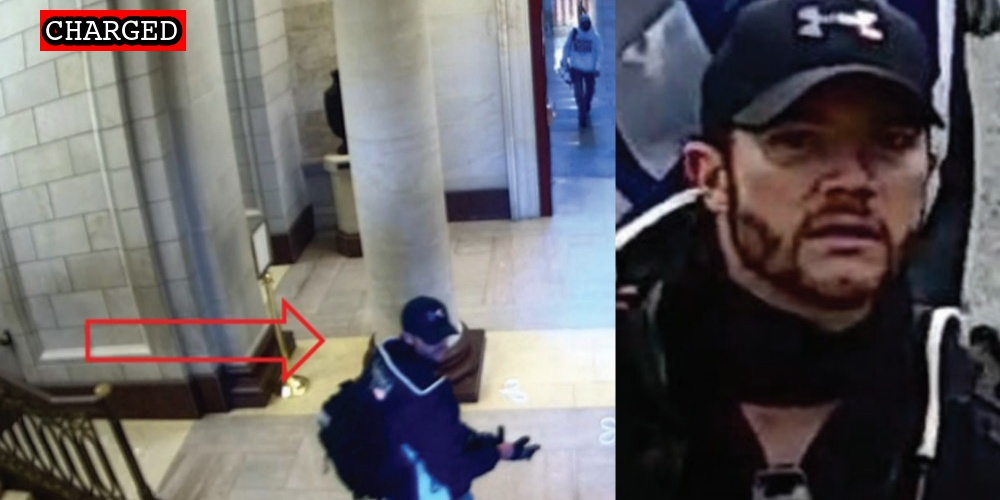
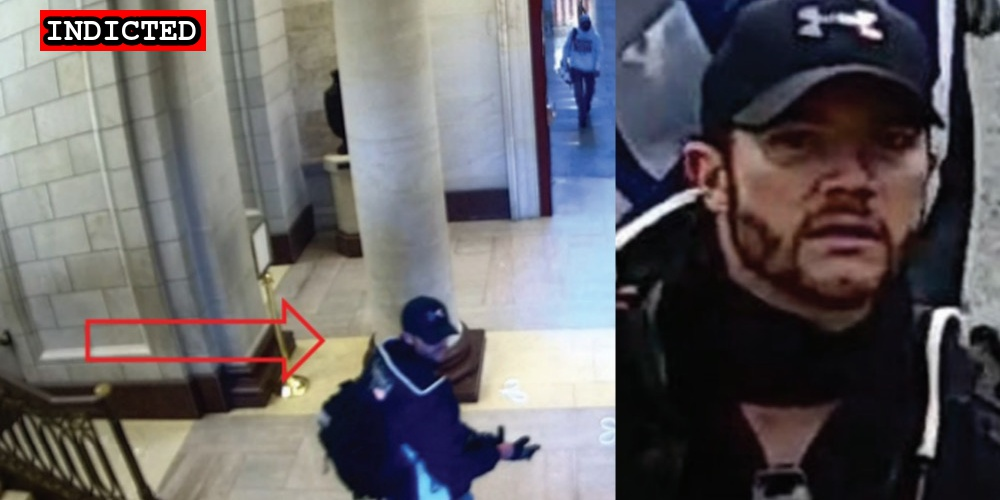
New indictment

Changed region(s): [[0.031, 0.0, 0.217, 0.12]]

diff --git a/docs/_suspects/george-tenney.md b/docs/_suspects/george-tenney.md
@@ -4,10 +4,10 @@ lastName: Tenney
 hashtag: ScruffyBouncer
 aka:
 residence: Texas
-status: Charged
+status: Indicted
 date: 2021-06-29
 charged: 2021-06-29
-indicted:
+indicted: 2021-10-22
 convicted:
 sentenced:
 dismissed:
@@ -39,3 +39,4 @@ sentence:
 
 - [News Report](https://www.postandcourier.com/news/south-carolina-men-charged-in-riot-at-u-s-capitol/article_defc5150-d907-11eb-997d-9353862128d9.html)
 - [Statement of Facts](https://www.justice.gov/usao-dc/case-multi-defendant/file/1412476/download)
+- [Indictment](https://www.justice.gov/usao-dc/press-release/file/1444216/download)

diff --git a/docs/_suspects/darrell-youngers.md b/docs/_suspects/darrell-youngers.md
@@ -4,10 +4,10 @@ lastName: Youngers
 hashtag: DarrellYoungers
 aka:
 residence: Texas
-status: Charged
+status: Indicted
 date: 2021-06-29
 charged: 2021-06-29
-indicted:
+indicted: 2021-10-22
 convicted:
 sentenced:
 dismissed:
@@ -36,5 +36,7 @@ videos:
 charges:
 sentence:
 ---
+
 - [News Report](https://abc13.com/houston-man-arrested-arrest-in-capitol-riot-darrell-youngers-january-6/10844224/)
 - [Statement of Facts](https://www.justice.gov/usao-dc/case-multi-defendant/file/1412476/download)
+- [Indictment](https://www.justice.gov/usao-dc/press-release/file/1444216/download)
